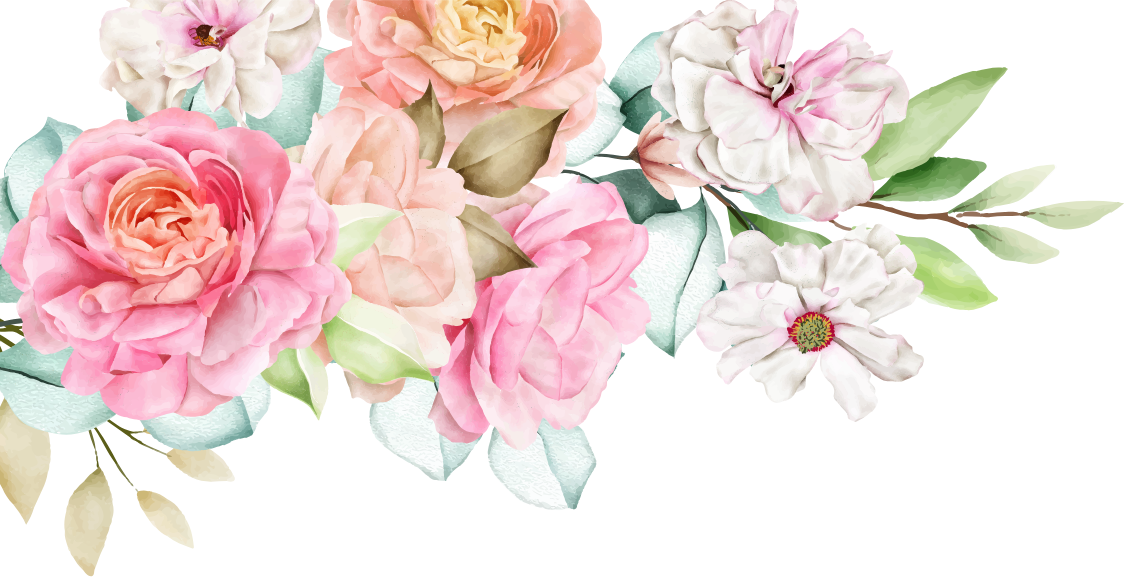
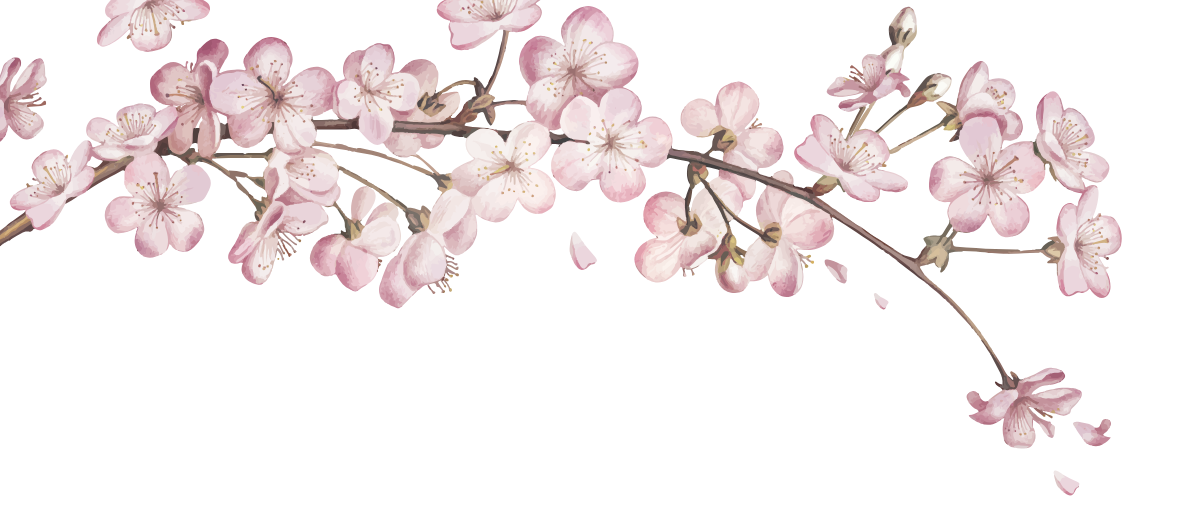
[ADDED]: Flores

diff --git a/src/layouts/RenataXVLayout.jsx b/src/layouts/RenataXVLayout.jsx
@@ -6,7 +6,7 @@ import MapButton from '../components/MapButton';
 // Asegúrate de que los nombres de estas imágenes coincidan con los tuyos
 import floresArriba from '../assets/flor-arriba.png'; 
 import floresAbajo from '../assets/flor-abajo.png';
-import fondoPapel from '../assets/textura-papel.jpg'; 
+import fondoPapel from '../assets/textura-papel.png'; 
 import selloCera from '../assets/sello-cera.png'; 
 import logoFiestapp from '../assets/logo.png'; 
 
